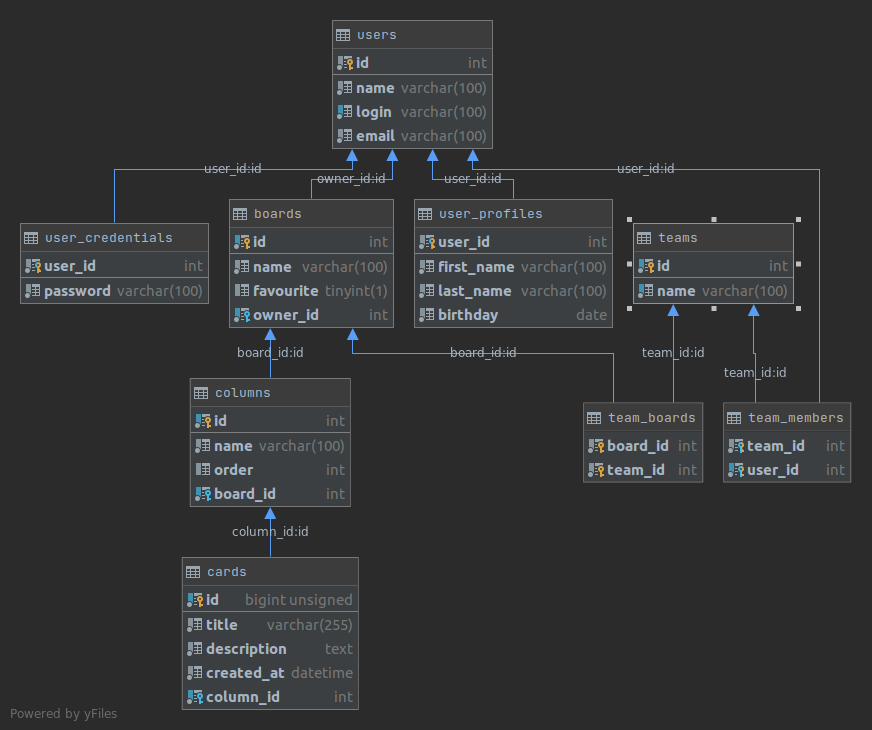
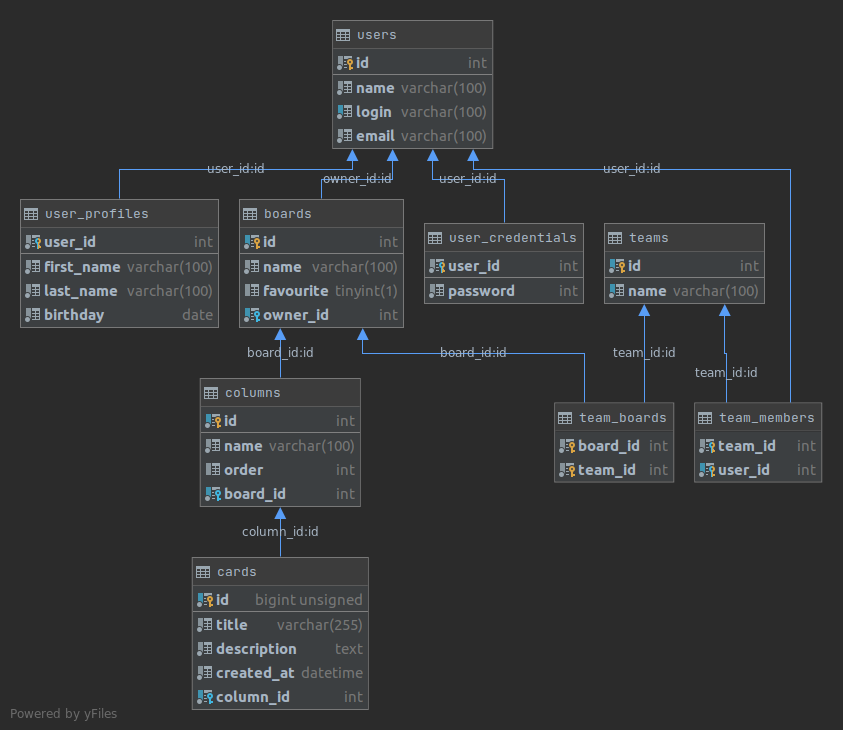
db diagram added signUp method added some minor changes

diff --git a/src/main/java/org/levelup/trello/service/jdbc/JdbcUserService.java b/src/main/java/org/levelup/trello/service/jdbc/JdbcUserService.java
@@ -14,9 +14,10 @@ public class JdbcUserService implements UserService {
     }
 
     @Override
-    public User createUser(String login, String email, String name, String password) {
+    public User createUser(String name, String login, String email, String password) {
+
         try (Connection connection = jdbcConnectionService.openConnection()){
-            String sql = "insert into users (id, login, email, name) values (nextval('user_id_sequence')?, ?, ?)";
+            String sql = "insert into users (id, name, login, email) values (nextval('user_id_sequence')?, ?, ?)";
             PreparedStatement stmt = connection.prepareStatement(sql, Statement.RETURN_GENERATED_KEYS);
             stmt.setString(1, login);
             stmt.setString(2, email);

diff --git a/src/main/java/org/levelup/trello/service/UserService.java b/src/main/java/org/levelup/trello/service/UserService.java
@@ -3,5 +3,5 @@ package org.levelup.trello.service;
 import org.levelup.trello.model.User;
 
 public interface UserService {
-    User createUser(String login, String email, String name, String password);
+    User createUser(String name, String login, String email, String password);
 }

diff --git a/README.md b/README.md
@@ -1,45 +1,32 @@
 # Trello_homework
-Homework project. Similar to Trello console application performed as part of the java dev course from LevelUp:
+Homework application performed as part of the java dev course from LevelUp:
 https://levelp.ru/courses/programmirovanie/basics-of-programming-in-the-java-language-level-2/
 
-**Technologies:**
-
-    Maven, Git, Mysql, plain JDBC
-
-**Tasks:**
-
-1. **Done**
-
-    Подумайте, пожалуйста, на схемой базы данных trello: какие таблицы в ней могут быть, какие колонки в таблицах, какие ограничения можно наложить на колонки, а также связи между таблицами.
-    Список таблиц с занятия:
-        users
-        boards
-        columns
-        cards
-        
-2. **Done**
-
-    Перенесите данные из таблицы users в таблицу user_credentials: значения из колонки password.
-    Добавьте таблицу user_profile
-    Добавьте связь между таблицей team и таблицей boards.
-
-3. **Done**
-
-    Сделайте авторизацию через базу: вы вводите с консоли логин/пароль и если такая пара существует в базе, то тогда авторизация пройдена успешно. Если нет, выдать сообщение об ошибке.
-
-4. **Done**
-
-    Добавьте возможность зарегистрироваться в программе. Пользователю на старте программа предлагает либо выполнить вход, либо зарегистрироваться. При регистрации пользователь вводит данные: имя, логин, пароль и email. После регистрации, пользователю предлагается выполнить вход с парой логин/пароль, которую он ввел ранее при регистрации.
-    Добавить возможность создания/редактирования/удаления и получения всех досок, которые есть у пользователя. 
-В меню это вынести в отдельную категорию. После входа пользователь должен увидеть следующее:
-
-    1 - Управление досками
-    
-После выбора этого меню, ему должно открыться следующее меню:
- 
-    1 - Добавить доску.
-    2 - Удалить доску.
-    3 - Изменить доску.
-      и так далее. 
-
 ![db diagram](db_diagram.png)
+
+Tasks:
+1.Подумайте, пожалуйста, на схемой базы данных trello: какие таблицы в ней могут быть, какие колонки в таблицах, какие ограничения можно наложить на колонки, а также связи между таблицами.
+Список таблиц с занятия:
+    users
+    boards
+    columns
+    cards
+
+2.Перенесите данные из таблицы users в таблицу user_credentials: значения из колонки password.
+Добавьте таблицу user_profile
+Добавьте связь между таблицей team и таблицей boards.
+
+
+3.Сделайте авторизацию через базу: вы вводите с консоли логин/пароль и если такая пара существует в базе, то тогда авторизация пройдена успешно. Если нет, выдать сообщение об ошибке.
+
+4. Добавьте возможность зарегистрироваться в программе.
+Пользователю на старте программа предлагает либо выполнить вход, либо зарегистрироваться. При регистрации пользователь вводит данные: имя, логин, пароль и email. После регистрации, пользователю предлагается выполнить вход с парой логин/пароль, которую он ввел ранее при регистрации.
+
+Добавить возможность создания/редактирования/удаления и получения всех досок, которые есть у пользователя.
+В меню это вынести в отдельную категорию. После входа пользователь должен увидеть следующее:
+1. Управление досками
+
+После выбора этого меню, ему должно открыться следующее меню:
+1. Добавить доску
+2. Изменить доску
+   и так далее. 
